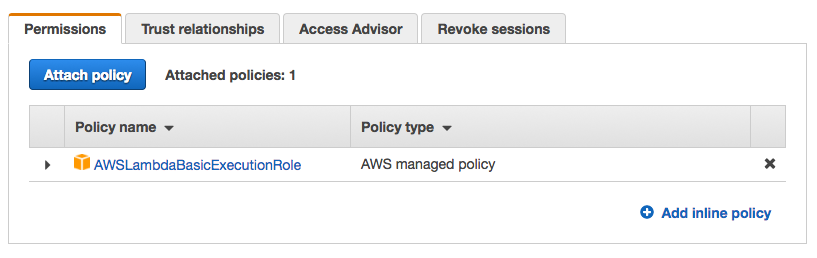
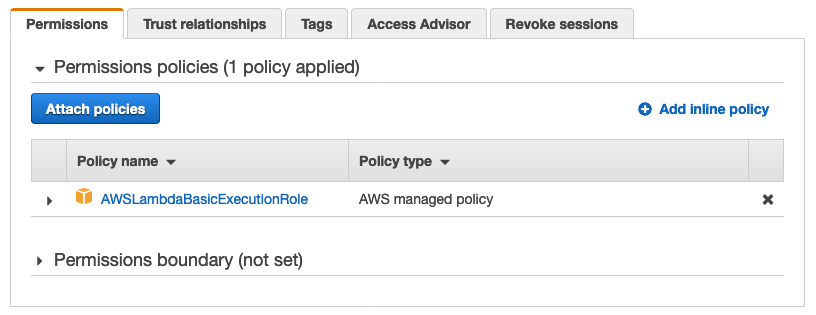
Fix various issues I found during validation after re:Invent 2020

diff --git a/workshop/content/StaticWebHosting/Deploy.en.md b/workshop/content/StaticWebHosting/Deploy.en.md
@@ -13,9 +13,9 @@ Next you'll use the [AWS Amplify Console][amplify-console] to deploy the website
 **:white_check_mark: Step-by-step directions**
 
 1. Launch the [Amplify Console][amplify-console-console]
-1. Underneath **Deploy** choose **Get Started**
+1. Underneath **Get Started**, you'll find a section titled **Host your web app". Click the **Get started** button within that section.
 {{% notice note %}}
-Depending on your console and account settings, you may not see the **Deploy** prompt. In this case, choose **Connect App**.
+Depending on your console and account settings, you may not see the **Get Started** prompt. In this case, click on the **AWS Amplify** title link in the top of the left side navigation.
 {{% /notice %}}
 1. Select *AWS CodeCommit* and choose **Continue**
 1. From the dropdown select the *Repository* and *Master Branch* created today and select **Next**

diff --git a/workshop/content/ServerlessBackend/IAM.en.md b/workshop/content/ServerlessBackend/IAM.en.md
@@ -37,7 +37,7 @@ Next you need to add permissions to the role so that it can access your DynamoDB
 **:white_check_mark: Step-by-step directions*
 
 1. While in the IAM Console on the roles page type `WildRydesLambda` into the filter box on the Roles page and choose the role you just created.
-1. On the Permissions tab, choose the **Add inline policy** link in the lower right corner to create a new inline policy.
+1. On the Permissions tab, choose the **Add inline policy** link in the upper right corner to create a new inline policy.
     ![Inline policies screenshot](/images/inline-policies.png)
 1. Select **Choose a service**.
 1. Begin typing `DynamoDB` into the search box labeled **Find a service** and select **DynamoDB** when it appears.

diff --git a/workshop/content/RESTfulAPIs/Cognito.en.md b/workshop/content/RESTfulAPIs/Cognito.en.md
@@ -21,7 +21,7 @@ In the Amazon API Gateway console, create a new Cognito user pool authorizer for
 1. Enter `WildRydes` for the Authorizer name.
 1. Select **Cognito** for the type.
 1. In the Region drop-down under **Cognito User Pool**, select the Region where you created your Cognito user pool in the User Management module (by default the current region should be selected).
-1. Enter `WildRydes` (or the name you gave your user pool) in the **Cognito User Pool** input.
+1. Enter `wildrydes` in the **Cognito User Pool** input, the name will auto-complete and allow you to select the name of the user pool that was generated when the user pool was created.
 1. Enter `Authorization` for the **Token Source**.
 1. Choose **Create**.
 

diff --git a/workshop/content/UserManagement/CreateUser.en.md b/workshop/content/UserManagement/CreateUser.en.md
@@ -35,7 +35,7 @@ If you get an ` Authentication Error  ` this is likely because your changes have
 
     1. From the AWS console, click Services then select **Cognito** under Security, Identity & Compliance.
     1. Choose **Manage your User Pools**
-    1. Select the `WildRydes` user pool and click **Users and groups** in the left navigation bar.
+    1. Select the user pool prefixed with `wildrydes` and click **Users and groups** in the left navigation bar.
     1. You should see a user corresponding to the email address that you submitted through the registration page. Choose that username to view the user detail page.
     1. Choose **Confirm user** to finalize the account creation process.
 

diff --git a/workshop/content/UserManagement/AppClient.en.md b/workshop/content/UserManagement/AppClient.en.md
@@ -13,7 +13,7 @@ A new App client has been created by the AWS Amplify build. Let's take a look at
 **:white_check_mark: Step-by-step directions**
 
 1. Go to the [Amazon Cognito Console][cognito-console]
-1. Choose **Manage your User Pools**.
+1. Choose **Manage User Pools**.
 
     Here you will see a new userpool generated by the AWS Amplify CLI that looks something similar to the example below:
     ![Amplify init screenshot](/images/cognito-userpool-screenshot.png)

diff --git a/workshop/content/StaticWebHosting/Repository.en.md b/workshop/content/StaticWebHosting/Repository.en.md
@@ -30,6 +30,7 @@ The AWS Cloud9 development environment comes with AWS managed temporary credenti
     ```
 1.  Split out the _WildRydesVue_ code into its own branch:
     ```
+    sudo yum install git-subtree -y
     git subtree split -P resources/code/WildRydesVue -b WildRydesVue
     ```
 1.  Create a new directory for your CodeCommit repo:
